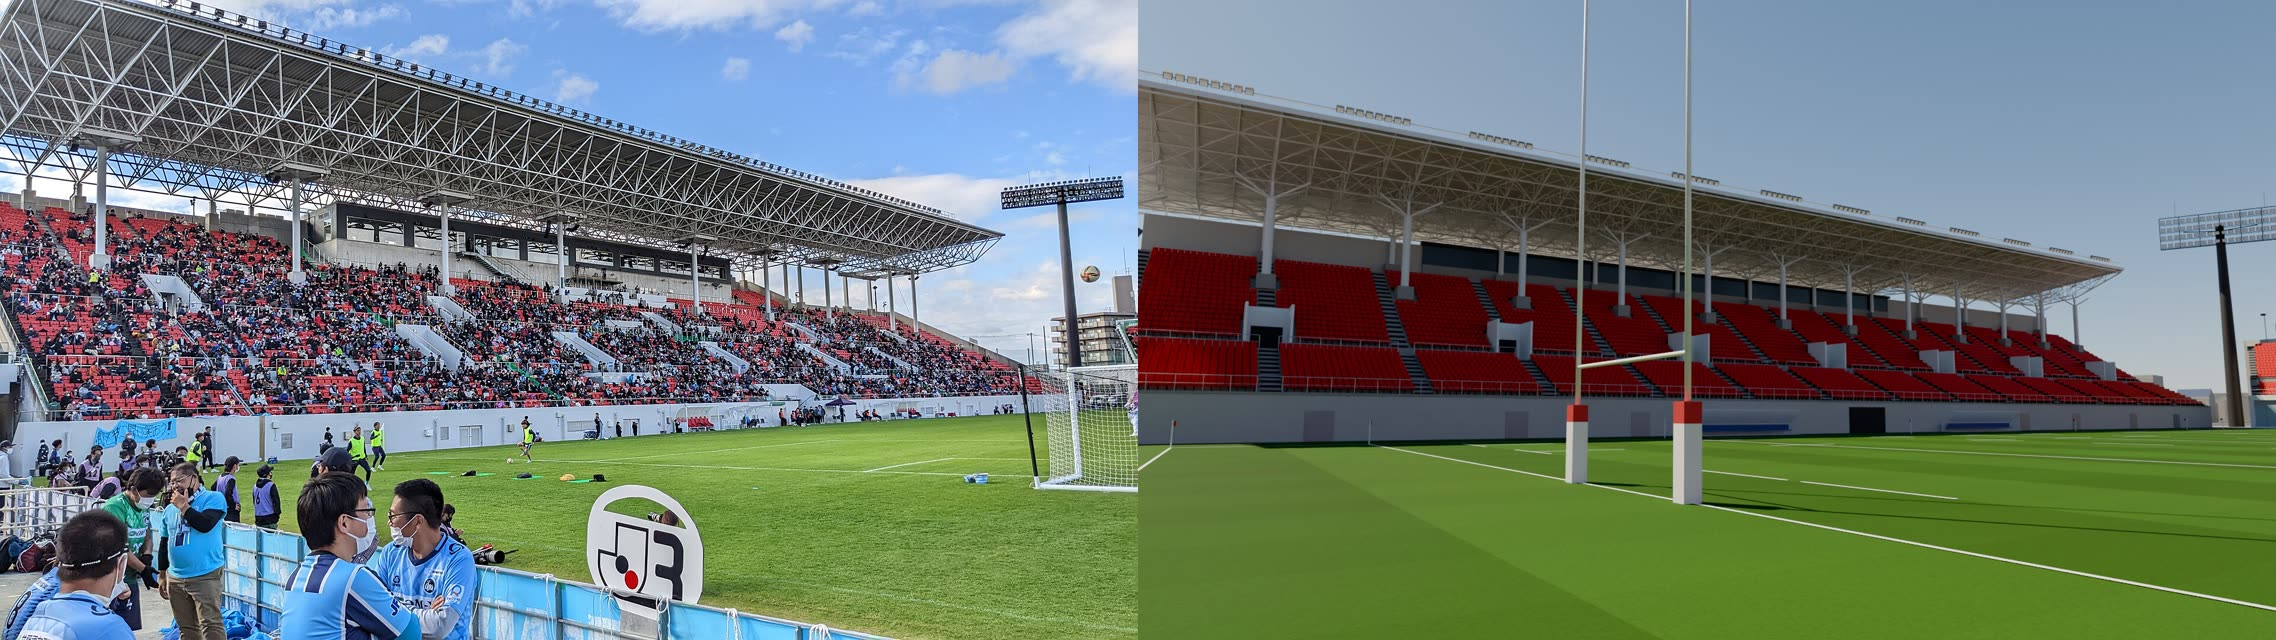
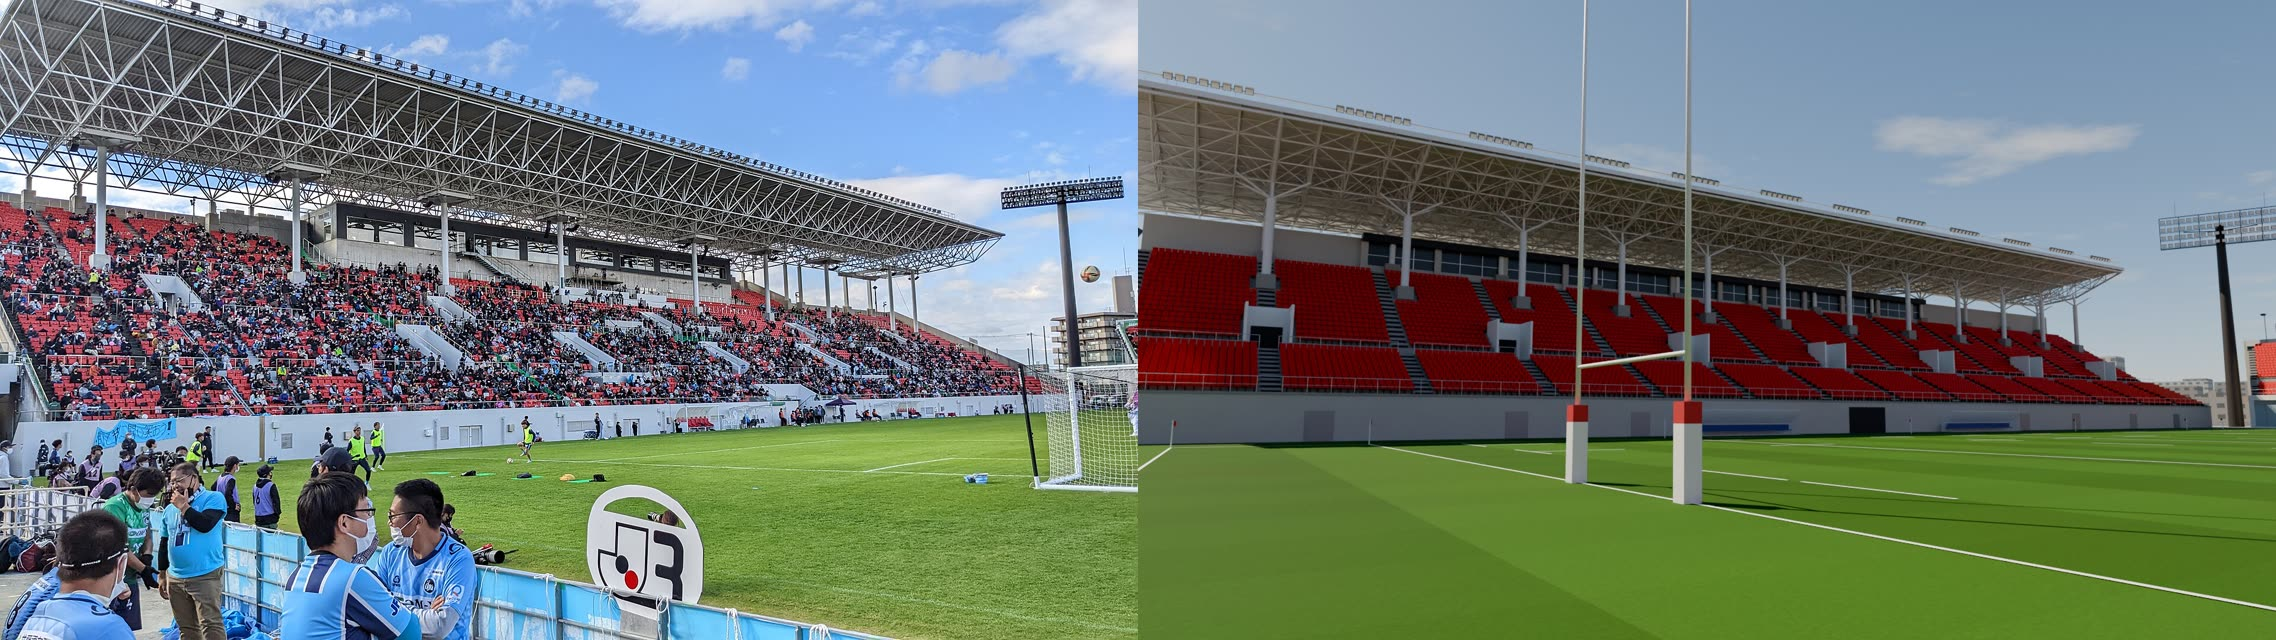
3 回目の直しの描き直しが完了: 比較 9 組を更新、PROGRESS.md を完了に

Changed region(s): [[0.5615, 0.3438, 0.8423, 0.5], [0.8111, 0.1875, 0.9359, 0.25], [0.9359, 0.5625, 0.9982, 0.6562]]

diff --git a/PROGRESS.md b/PROGRESS.md
@@ -1,12 +1,13 @@
 # 進み具合
 
 新しいセッションは、このファイルと docs/plan.md、docs/reference.md を読めば続きから始められる。
-最後に更新した日: 2026-11-17
+最後に更新した日: 2026-11-18
 
 ## 今の段階
 
-**⑨の 3 回目(本人の「全部やろう」を受けて)の直しは済み、描き直しを裏で流している(2026-11-17 夜)。**
-`./run.sh compare` → `SAMPLES=160 ./run.sh stills` → `./run.sh video` を順に流している(合わせて 7 時間ほど)。
+**完了。⑨の 3 回目(本人の「全部やろう」を受けて)の直しと、描き直しまで終わった(2026-11-18 朝)。**
+docs/compare/ の 9 組、out/final/ の静止画 10 枚、out/hanazono_orbit.mp4(1920×1080、30 秒、900 コマ)ができている。
+本人が静止画を見て「めっちゃいい」。夜の外観の七色は本人の写真に近い。
 
 3 回目に直したこと(詳しくは docs/remaining.md の 13〜22):
 中継風カメラの柱、生駒山の距離、雲、霞、南の町と近鉄の線路、マンションと町工場、夜の窓の明かり、夜空、
@@ -14,13 +15,13 @@
 
 ## 次にやること(引き継ぎ用)
 
-1. `pgrep -fl "orbit.py|render.py|compare.py"` で動いているか確かめる。動いていれば待つ(二重に流さない)
-2. 止まっていたら、できていない所から流し直す:
-   - docs/compare/ の画像が古い → `./run.sh compare`
-   - out/final/ の更新時刻が 2026-11-17 夜より古い → `SAMPLES=160 caffeinate -i ./run.sh stills`
-   - out/hanazono_orbit.mp4 が古い、または out/orbit_frames_day/ にコマが残っている → `caffeinate -i ./run.sh video`(続きから描く)
-3. 動画は数コマ、静止画は昼夜 1 枚ずつ(できれば exterior_night も)開いて確かめる
-4. 本人に日本語で短く報告し、このファイルを「完了」に書き直してコミット・push
+決まった作業は残っていない。頼まれたら手を付けたい候補:
+- 町の家が同じ形の繰り返しに見える(空撮で目立つ)。形・大きさ・屋根の色にばらつきをつける
+- 七色が時間で変わるのか(実物)を確かめ、変わるなら夜の動画で動かす
+- あとで試合の動き(選手)を足す。実寸・原点の決まりはそのため
+
+描き直すときの手順: `./run.sh compare` → `SAMPLES=160 caffeinate -i ./run.sh stills` → `caffeinate -i ./run.sh video`
+(動画は 1 コマ約 32 秒、900 コマで約 8 時間。途中で止まっても続きから描ける)
 
 ## これまでに終わったこと
 
